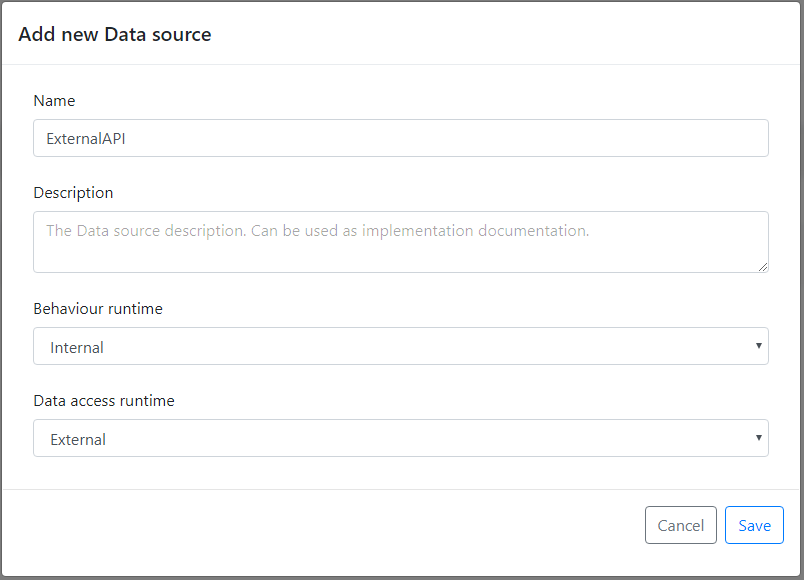
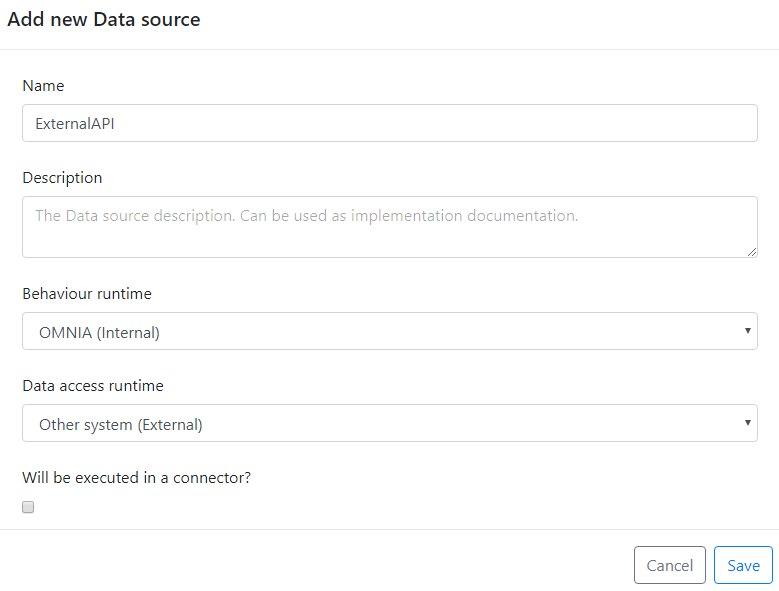
Review data source documentation

diff --git a/docs/pages/omnia3/Modeler/omnia3_modeler_datasources.md b/docs/pages/omnia3/Modeler/omnia3_modeler_datasources.md
@@ -10,9 +10,10 @@ folder: omnia3
 
 ## 1. Introduction
 
-The **OMNIA Platform** can use and combine information from different places - for example, obtaining data from an ERP or CRM, or an external API. The way to model this is through **Data Sources**. A Data Source is an entity similar to the others, but it has two additional properties:
+The **OMNIA Platform** can use and combine information from different places - for example, obtaining data from an ERP or CRM, or an external API. The way to model this is through **Data Sources**. A Data Source is an entity similar to the others, but it has three additional properties:
 - **Behaviour runtime**: Where the [entity's behaviours](omnia3_modeler_behaviours.html) execute. **Internal** means they execute inside the platform, and **External** means they execute on the [connector](omnia3_connector_introduction.html).
-- **Data Access runtime**: Where the _data behaviours_ execute, i.e., where the Create, Read, Update and Delete (CRUD) operations execute. **Internal** means they are executed inside the platform and their information is stored on its database, and **External** means they are written by users and execute either on the connector or the platform, depending on the Behaviour runtime.
+- **Data Access runtime**: Where the _data behaviours_ execute, i.e., where the Create, Read, Update and Delete (CRUD) operations execute. **Internal** means they are executed inside the platform and their information is stored on its database, and **External** means they are written by users and execute either on the connector or the platform, depending on the Behaviour runtime and the next option.
+- **Will be executed in a connector?**: Whether the behaviours execute on a connector or not. Automatically calculated for most cases, but if your **Behaviours** are internal to the platform and the **Data Access** is external, you may or may not want to execute behaviours on a connector.
 
 ## 2. Types of Data Behaviours
 

diff --git a/docs/pages/omnia3/Tutorials/omnia3_datasourcetutorial.md b/docs/pages/omnia3/Tutorials/omnia3_datasourcetutorial.md
@@ -30,7 +30,7 @@ If you do not have a tenant yet, please follow the steps of the [Tenant Creation
 
     ![Homepage_Dashboard](http://funkyimg.com/i/2DVGv.png)
 
-2. Through the left side menu, create a new Data Source by accessing the option ***Data Sources / Create new*** on the top right side. Set its Name as "ExternalAPI", Behaviour Runtime as Internal and its Data Access Runtime as External.
+2. Through the left side menu, create a new Data Source by accessing the option ***Data Sources / Create new*** on the top right side. Set its Name as "ExternalAPI", Behaviour Runtime as Internal and its Data Access Runtime as External. Leave it as not requiring a connector.
 
     ![Modeler_Create_DataSource](https://raw.githubusercontent.com/numbersbelieve/omnia3/master/docs/tutorialPics/modelingTutorial/Modeler-Create-DataSource.PNG)
     
